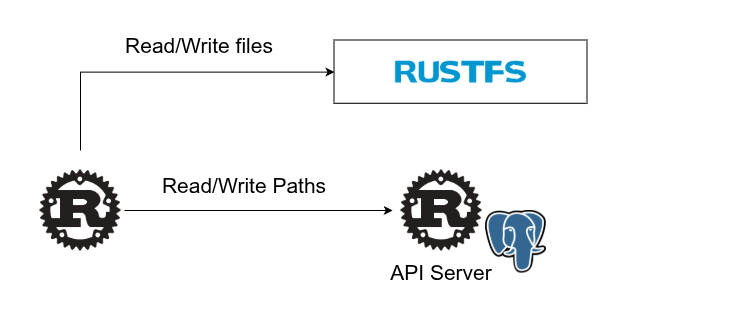
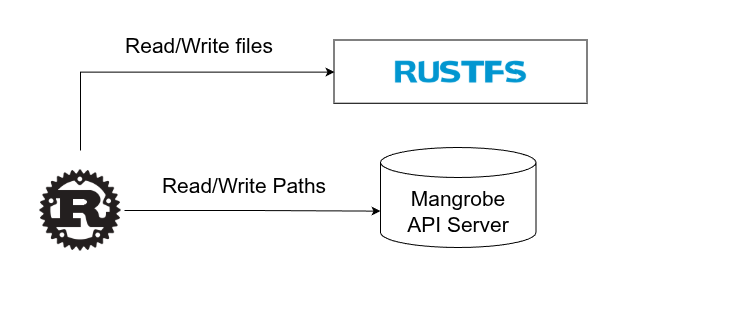
refine readme

diff --git a/README.md b/README.md
@@ -7,15 +7,15 @@ Time-series Table Protocol - like Iceberg, but built for time-series, streaming,
 * **Fast file registration**. Adding new files won't conflict.
 * **Easy operation**. No Hadoop or ZooKeeper required.
 * **Easy integration**. No complicated implementation needed — just gRPC.
-* **Multi-tenancy**. No conflicts across tenants (streams).
+* **Multi-tenancy**. No conflicts across tenants.
 
 # Examples
 
 You can see examples in [examples](./mangrobe-lab/examples) directory
 
-# Goal
+# Overview
 
-![](./docs/img/goal_flow.png)
+![](./docs/img/overview.png)
 
 # Mangrobe Protocol
 
